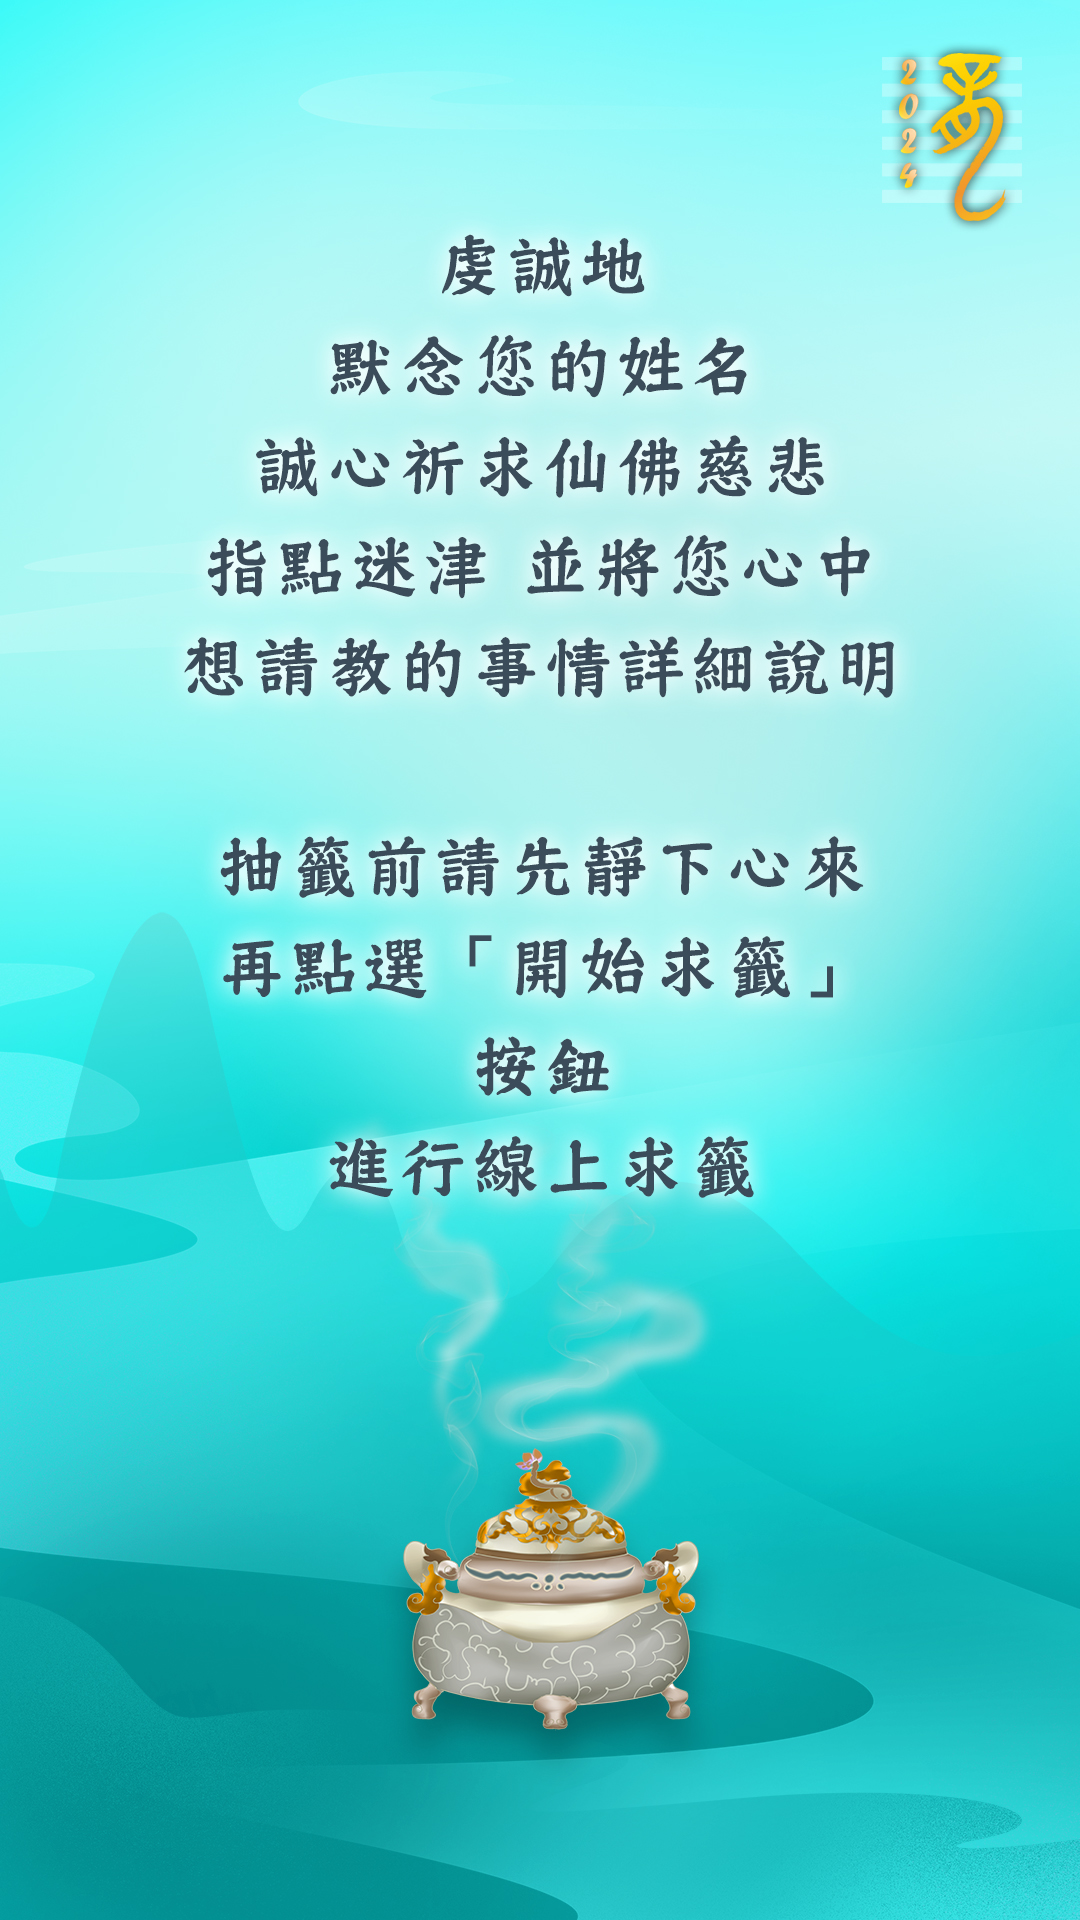
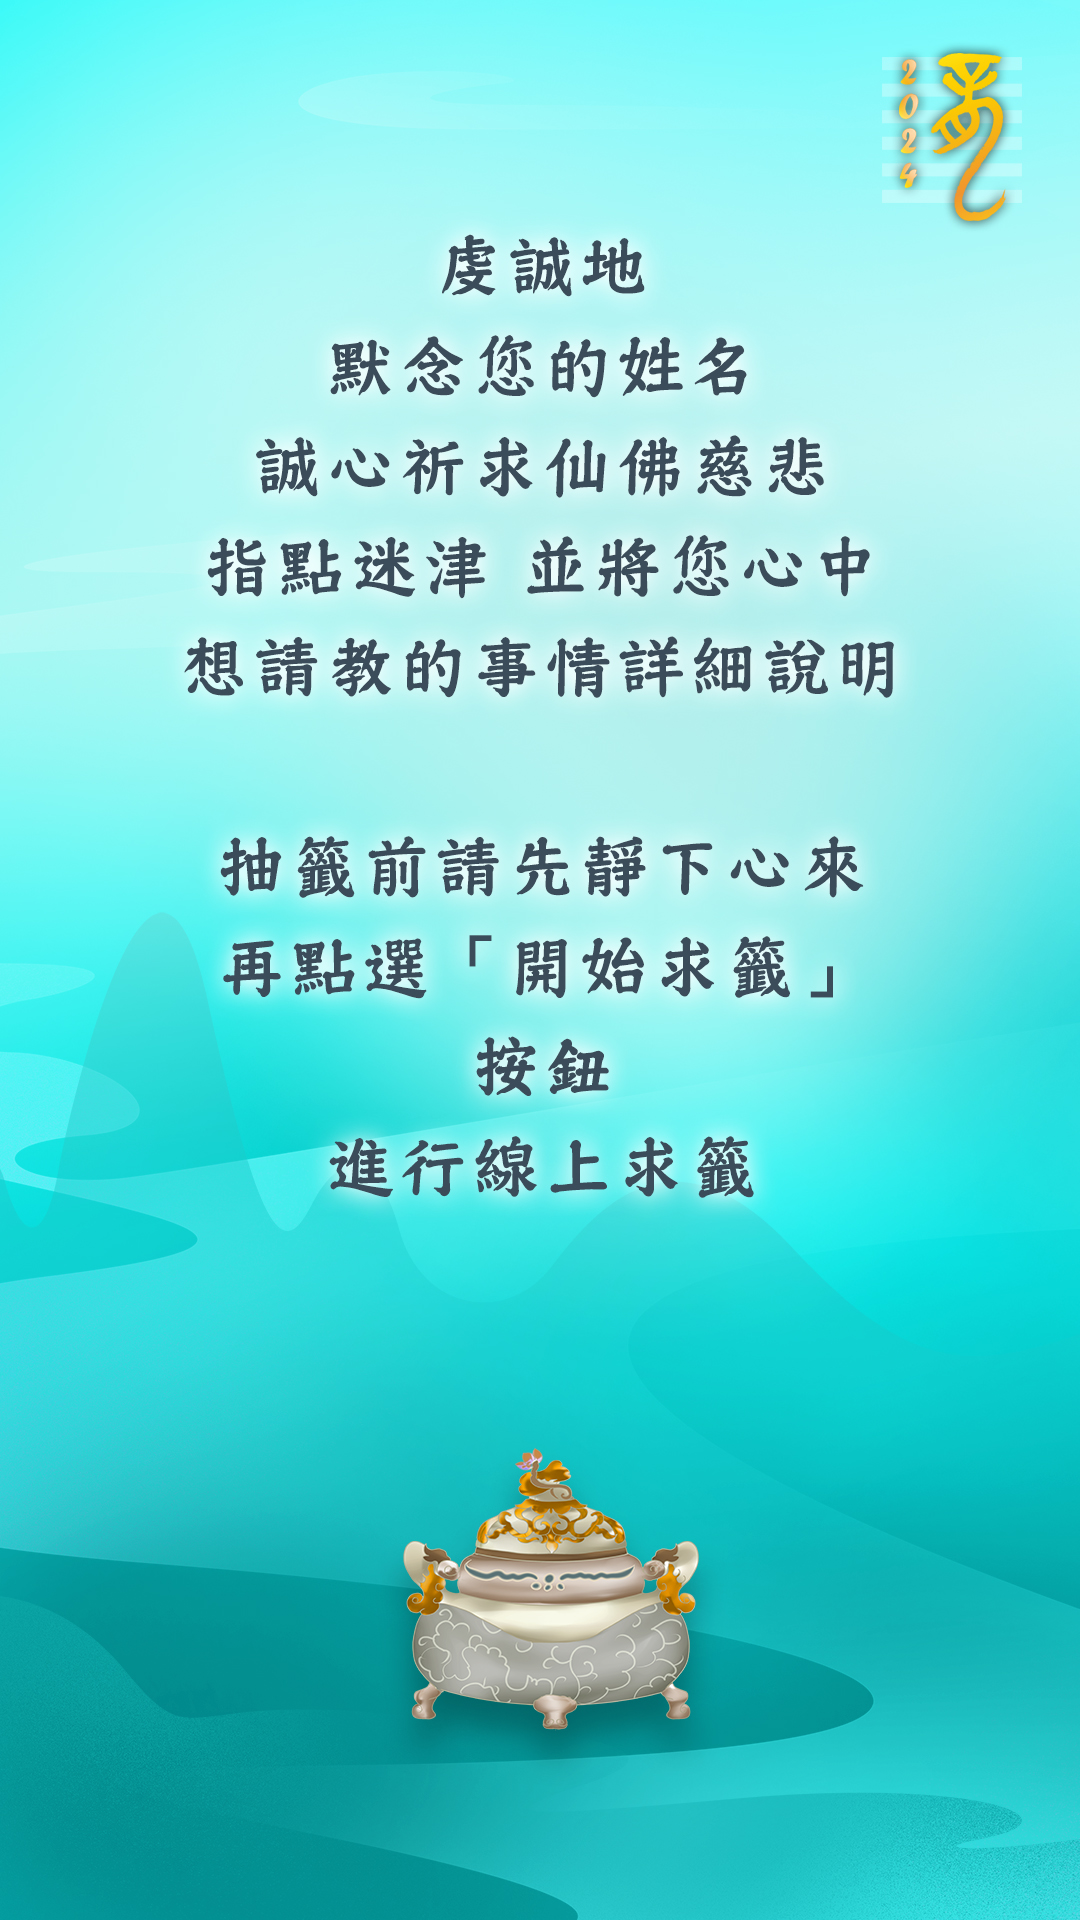
第二頁淡出乾掛詩籤效果完成

Changed region(s): [[0.3667, 0.625, 0.6722, 0.8125]]

diff --git a/webPage/item2.html b/webPage/item2.html
@@ -7,18 +7,49 @@
     <link rel="stylesheet" href="../css/style.css">
     <title>龍情密意</title>
     <script src="../script/common.js" defer></script>
+	
+	<style>
+		#page_mask{
+			transition: 3s;
+			opacity: 0;
+			display: none;
+		}
+		
+	</style>	
 </head>
 
 <body style="margin: 0; padding: 0;border: 0;">
-    <div class="container">
+  <div class="container">
         <img class="background-img" id="background-image" src="../img/item2_back.png" alt="Background Image" />
         <div class="item-frame" id="frame-item">
             <img class="item-img" style=" filter: grayscale(100%); height: 13.958%; top: 63.177%; left: 41.018%;" src="../img/item2_anim.gif" />
-            <a href="../webPage/item2_1.html"><img class="item-img" style=" height: 10.520%; top: 89.479%; left: 36.296%;" src="../img/item2_btn_start.png" /></a>
-
+            <img class="item-img" id="btn_start" style=" height: 10.520%; top: 89.479%; left: 36.296%;" src="../img/item2_btn_start.png" />
+			
         </div>
-
+		<img class="background-img" id="page_mask"  style="z-index: 10" src="../img/item2-1_back.png" alt="Background Image" />
     </div>
+	<script>
+		    document.addEventListener('DOMContentLoaded', function () {
+        // 等待文檔載入完成後執行以下程式碼
+
+        // 獲取元素
+        var btnStart = document.getElementById('btn_start');
+        var pageMask = document.getElementById('page_mask');
+
+        // 添加點擊事件監聽器
+        btnStart.addEventListener('click', function () {
+            // 顯示 page_mask
+            pageMask.style.display = 'block';
+
+            // 強制瀏覽器重新計算樣式，以觸發淡入效果
+            window.getComputedStyle(pageMask).opacity;
+
+            // 淡入效果
+            pageMask.style.opacity = '1';
+        });
+    });
+		
+	</script>
 
 </body>
 

diff --git a/webPage/item2_1.html b/webPage/item2_1.html
@@ -5,7 +5,7 @@
     <meta charset="UTF-8">
     <meta name="viewport" content="width=device-width, initial-scale=1.0">
     <link rel="stylesheet" href="../css/style.css">
-    <title>開始求籤</title>
+    <title>乾卦詩籤</title>
 </head>
 
 <body style="margin: 0; padding: 0;border: 0;">

diff --git a/css/style.css b/css/style.css
@@ -38,8 +38,7 @@ body, html {
   object-fit: cover;
   z-index: 2;
 }
-.item-img {
- 
+.item-img { 
   position: absolute;
   z-index: 4;
 }
